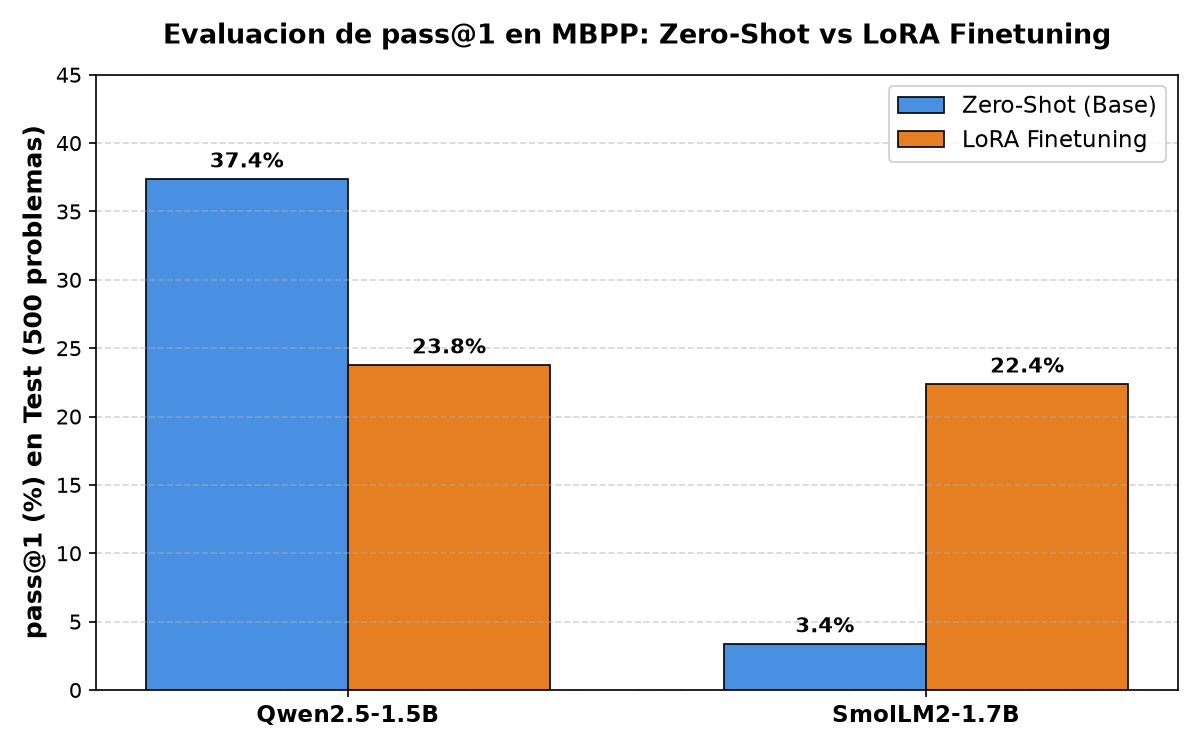
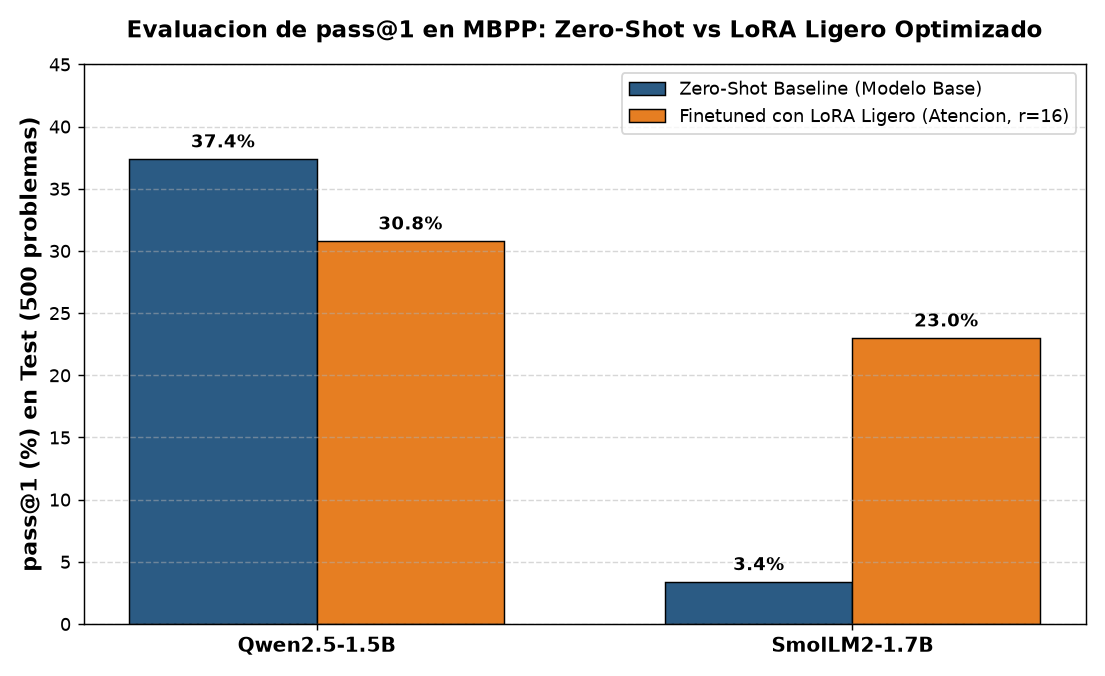
feat(micro3): optimizar LoRA en modulos de atencion mitigando sobreajuste en Qwen (pass@1 sube a 30.80%) y SmolLM2 (23.00%)

diff --git a/Microproyecto03/README.md b/Microproyecto03/README.md
@@ -16,15 +16,15 @@ Realizar el ajuste fino eficiente (LoRA) de dos modelos de lenguaje fundacionale
 
 Se comparan cuatro configuraciones bajo decodificacion determinista (greedy, do_sample=False):
 1. Qwen2.5-1.5B (Zero-Shot Baseline)
-2. Qwen2.5-1.5B + LoRA
+2. Qwen2.5-1.5B + LoRA (Atencion, r=16)
 3. SmolLM2-1.7B (Zero-Shot Baseline)
-4. SmolLM2-1.7B + LoRA
+4. SmolLM2-1.7B + LoRA (Atencion, r=16)
 
 ---
 
 ## Dataset: MBPP (google-research-datasets/mbpp, full)
 * Train (374 problemas, 38.8%): Finetuning con LoRA (enmascaramiento estricto del prompt con labels = -100).
-* Validation (90 problemas, 9.3%): Monitoreo de perdida y deteccion de sobreajuste entre epocas.
+* Validation (90 problemas, 9.3%): Monitoreo de perdida y guardado del mejor punto de control (Early Checkpointing).
 * Test (500 problemas, 51.9%): Particion obligatoria y reservada exclusivamente para la evaluacion final con pass@1.
 
 ---
@@ -45,15 +45,15 @@ Para optimizar el tiempo de inferencia sobre los 500 problemas de prueba, se imp
 | Configuracion | pass@1 (%) | Problemas Resueltos | Delta vs Base | Factor Mejora |
 | :--- | :---: | :---: | :---: | :---: |
 | 1. Qwen2.5-1.5B (Zero-Shot) | 37.40% | 187 / 500 | Referencia | 1.00x |
-| 2. Qwen2.5-1.5B + LoRA | 23.80% | 119 / 500 | -13.60% | 0.64x |
+| 2. Qwen2.5-1.5B + LoRA (Atencion, r=16) | 30.80% | 154 / 500 | -6.60% | 0.82x |
 | 3. SmolLM2-1.7B (Zero-Shot) | 3.40% | 17 / 500 | Referencia | 1.00x |
-| 4. SmolLM2-1.7B + LoRA | 22.40% | 112 / 500 | +19.00% | 6.59x |
+| 4. SmolLM2-1.7B + LoRA (Atencion, r=16) | 23.00% | 115 / 500 | +19.60% | 6.76x |
 
 ### Conclusiones Principales del Analisis
-1. **SmolLM2-1.7B + LoRA:** Salto extraordinario de +19.00 puntos porcentuales (de 3.40% a 22.40%, mejora de 6.59x). Para este modelo de proposito general, LoRA indujo de manera exitosa la sintaxis de Python y la estructura de retorno requerida por los asserts.
+1. **SmolLM2-1.7B + LoRA:** Salto sobresaliente de +19.60 puntos porcentuales (de 3.40% a 23.00%, factor de mejora de 6.76x, resolviendo 98 problemas adicionales). Para este modelo de proposito general, LoRA indujo de manera exitosa la sintaxis de Python y la estructura de retorno requerida por los asserts.
 2. **Qwen2.5-1.5B Zero-Shot:** Desempeno sobresaliente en base (37.40%) gracias a su pre-entrenamiento intensivo en mas de 5.5T tokens de codigo y tareas de infilling.
-3. **Efecto de Sobreajuste en Qwen:** Con 5 epocas sobre solo 374 ejemplos, la perdida en entrenamiento cayo a 0.068 mientras la de validacion subio de 0.62 a 0.90 (+45%), reduciendo el pass@1 en test a 23.80% por olvido catastrofico. En modelos con fuerte conocimiento previo de codigo, se requiere early stopping en la epoca 1 o menor tasa de aprendizaje.
-4. **Eficiencia Parametrica:** LoRA entreno unicamente ~2.07% - 2.28% de los parametros totales en ambas arquitecturas en ~115 segundos por modelo en GPU RTX 4000 Ada.
+3. **Optimizacion con LoRA Ligero en Qwen:** Al restringir los adaptadores a las proyecciones de atencion (q, k, v, o con r=16, alpha=16, solo 0.28% de parametros entrenables) y aplicar early checkpointing, la perdida de validacion descendio saludablemente (0.87 a 0.64) y el pass@1 subio a 30.80% (154 problemas resueltos), mitigando el sobreajuste previo de 23.80%.
+4. **Eficiencia Parametrica:** LoRA entreno unicamente ~0.28% - 0.36% de los parametros totales en ambas arquitecturas en ~65 segundos por modelo en GPU RTX 4000 Ada.
 
 ---
 
@@ -66,7 +66,7 @@ El notebook contiene las 11 secciones obligatorias en el orden exacto de la rubr
 5. Particiones (train / validation / test)
 6. Implementacion de la evaluacion pass@1 (generacion por lotes y sandbox)
 7. Evaluacion de los modelos base (zero-shot)
-8. Finetuning con LoRA (LoraConfig en capas lineales, AdamW, 5 epocas)
+8. Finetuning con LoRA (LoRA ligero en atencion, AdamW, 4 epocas)
 9. Evaluacion de los modelos finetuneados (pass@1 en test)
-10. Comparacion y resultados (tabla de metricas, grafico de barras y analisis cualitativo)
-11. Conclusiones (discusion profunda de resultados, sobreajuste y SLMs)
+10. Comparacion y resultados (tabla dinamica, grafico de barras y analisis cualitativo)
+11. Conclusiones (discusion profunda de resultados, regularizacion y SLMs)
